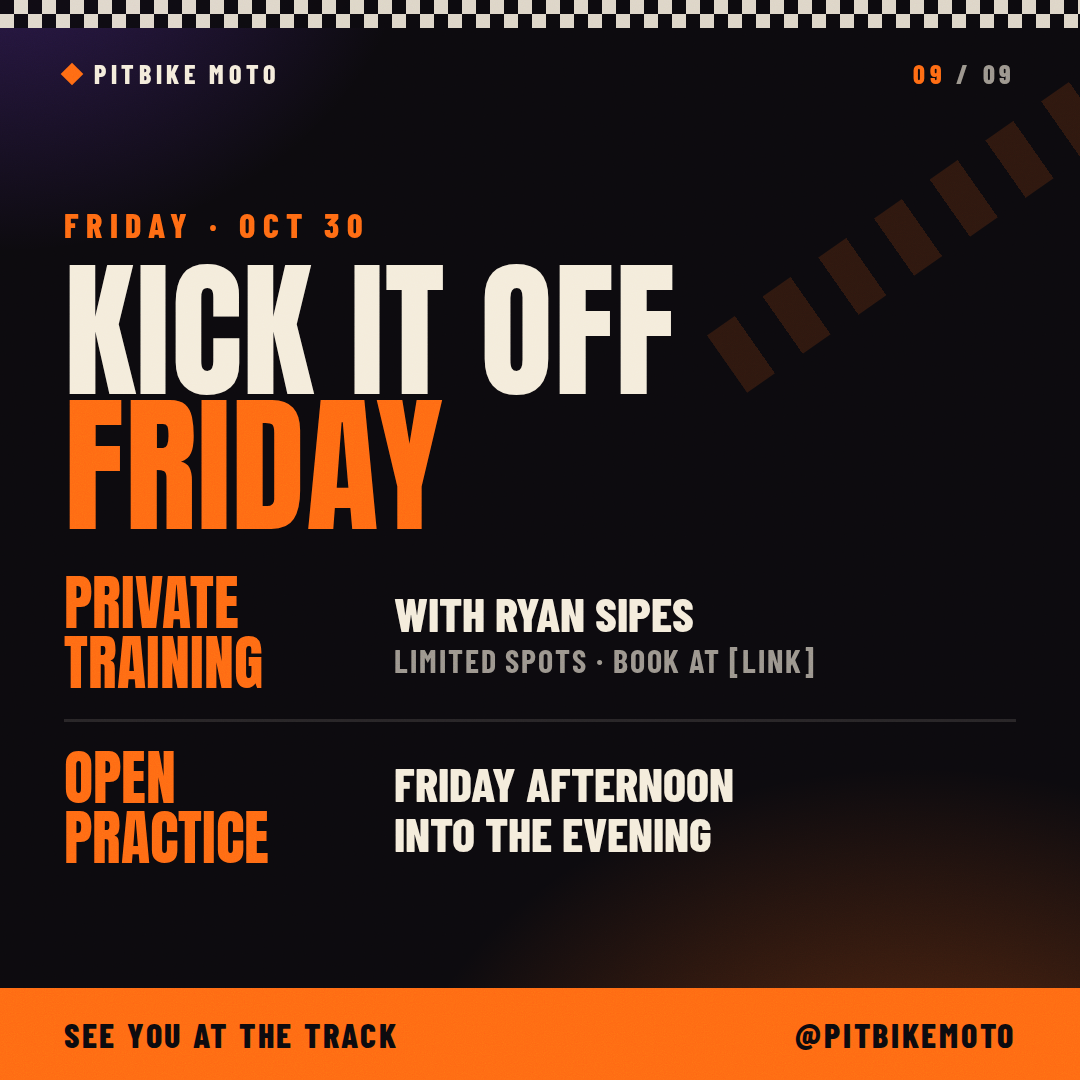
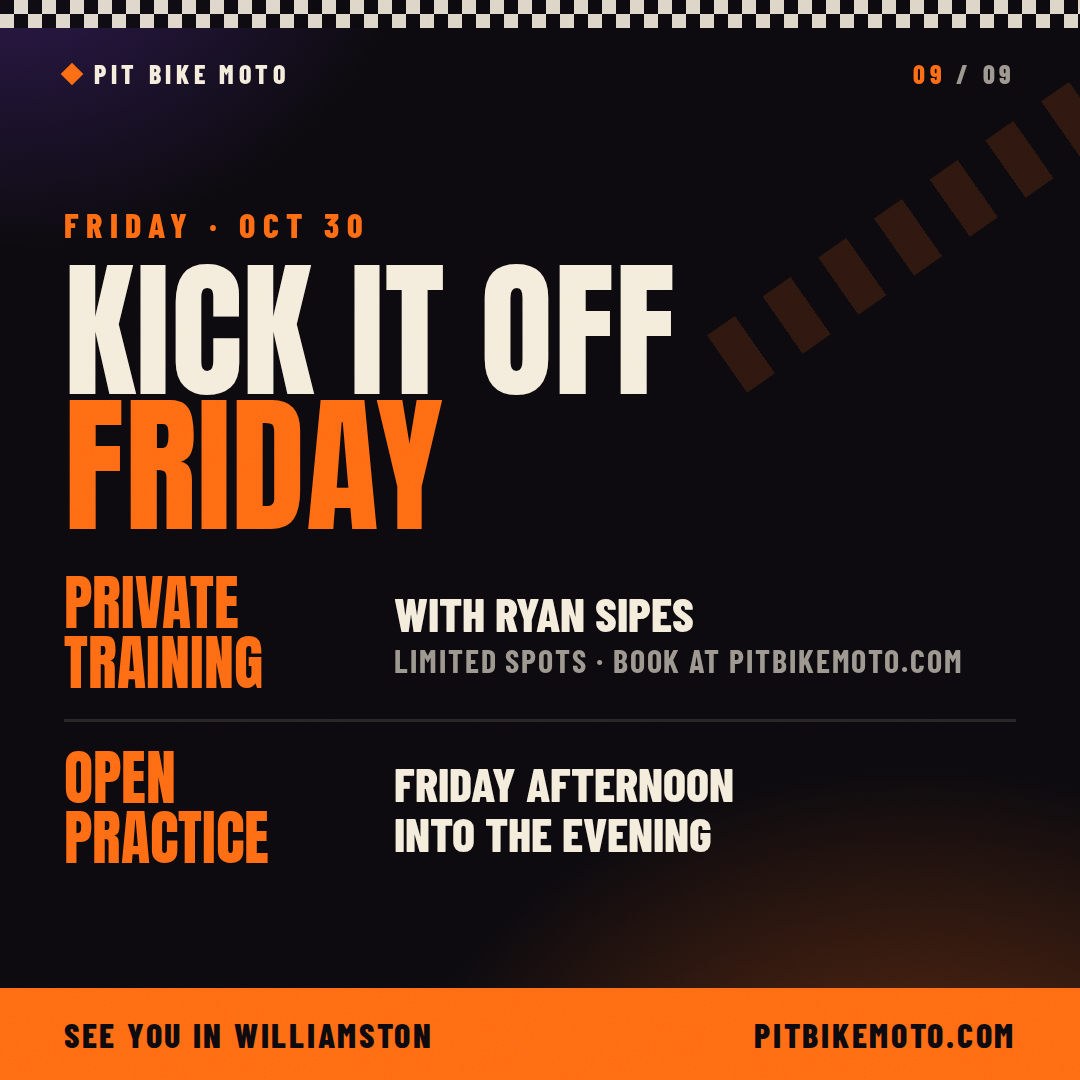
Pit Bike Moto carousel: real event name, venue, dates and site URL
Claude-Session: https://claude.ai/code/session_01LsUGnuPsq6MTeeFWjso5jm

diff --git a/clients/pitbike-moto/halloween-carousel/index.html b/clients/pitbike-moto/halloween-carousel/index.html
@@ -3,7 +3,7 @@
 <head>
 <meta charset="utf-8">
 <meta name="robots" content="noindex">
-<title>Pitbike Moto — Halloween Weekend Carousel</title>
+<title>Pit Bike Moto — Halloween Showcase Carousel</title>
 <style>
   @font-face { font-family: 'Anton'; src: url(fonts/anton.woff2) format('woff2'); font-weight: 400; }
   @font-face { font-family: 'Barlow Condensed'; src: url(fonts/barlow-cond-500.woff2) format('woff2'); font-weight: 500; }
@@ -126,18 +126,18 @@
 <!-- 01 · ANNOUNCEMENT -->
 <section class="slide" id="s1">
   <div class="checker"></div>
-  <div class="topbar"><div class="brand"><span class="dot"></span>Pitbike Moto</div><div class="count"><b>01</b> / 09</div></div>
+  <div class="topbar"><div class="brand"><span class="dot"></span>Pit Bike Moto</div><div class="count"><b>01</b> / 09</div></div>
   <svg class="icon" style="left:640px;top:170px;width:130px;height:55px;color:rgba(244,236,219,.5);transform:rotate(-12deg)"><use href="#bat"/></svg>
   <svg class="icon" style="left:840px;top:250px;width:80px;height:34px;color:rgba(244,236,219,.35);transform:rotate(10deg)"><use href="#bat"/></svg>
   <svg class="icon" style="right:44px;top:330px;width:300px;height:270px;transform:rotate(8deg)"><use href="#pumpkin"/></svg>
   <div class="body" style="justify-content:flex-start;padding-top:90px">
-    <div class="kicker">Race weekend announcement</div>
+    <div class="kicker">Pit Bike Moto presents</div>
     <div class="h" style="font-size:150px">Halloween</div>
-    <div class="h outline" style="font-size:150px">Moto</div>
-    <div class="h" style="font-size:150px;color:var(--orange)">Weekend</div>
+    <div class="h" style="font-size:150px;color:var(--orange)">Showcase</div>
+    <div class="h outline" style="font-size:96px;margin-top:8px">Indoor racing</div>
     <div class="sub" style="margin-top:34px;color:var(--bone);font-size:52px">Oct 30 – Nov 1</div>
-    <div class="sub" style="font-size:38px">Track Name · City, ST</div>
-    <div class="sub" style="margin-top:34px;font-size:32px;letter-spacing:.14em;color:var(--orange-2)">Racing · Live Band · Camping · Trick-or-Treat</div>
+    <div class="sub" style="font-size:38px">Bob Martin Ag Center · Williamston, NC</div>
+    <div class="sub" style="margin-top:34px;font-size:32px;letter-spacing:.14em;color:var(--orange-2)">Racers from all over the country · Live band · Camping</div>
   </div>
   <div class="footer"><span>All the details inside</span><span class="swipe">Swipe <svg><use href="#arrow"/></svg></span></div>
 </section>
@@ -145,7 +145,7 @@
 <!-- 02 · ADMISSION -->
 <section class="slide" id="s2">
   <div class="checker"></div><div class="stripes"></div>
-  <div class="topbar"><div class="brand"><span class="dot"></span>Pitbike Moto</div><div class="count"><b>02</b> / 09</div></div>
+  <div class="topbar"><div class="brand"><span class="dot"></span>Pit Bike Moto</div><div class="count"><b>02</b> / 09</div></div>
   <div class="body">
     <div class="kicker">Spectators</div>
     <div class="h" style="font-size:132px">General<br>Admission</div>
@@ -170,14 +170,14 @@
 <section class="slide" id="s3">
   <div class="checker"></div>
   <div class="ghostnum">2+</div>
-  <div class="topbar"><div class="brand"><span class="dot"></span>Pitbike Moto</div><div class="count"><b>03</b> / 09</div></div>
+  <div class="topbar"><div class="brand"><span class="dot"></span>Pit Bike Moto</div><div class="count"><b>03</b> / 09</div></div>
   <div class="body">
     <div class="kicker">Not an AMA member?</div>
     <div class="h" style="font-size:118px">Sign up for</div>
     <div class="h" style="font-size:210px;color:var(--orange)">2+ classes</div>
     <div class="h" style="font-size:118px;margin-top:10px">We pay your</div>
     <div class="h outline" style="font-size:118px">AMA weekend fee</div>
-    <div class="sub" style="margin-top:36px;font-size:36px">For non-AMA members · Pre-entry at [link]</div>
+    <div class="sub" style="margin-top:36px;font-size:36px">Pre-entry at pitbikemoto.com</div>
   </div>
   <div class="footer"><span>Race it on us</span><span class="swipe">Swipe <svg><use href="#arrow"/></svg></span></div>
 </section>
@@ -186,7 +186,7 @@
 <section class="slide" id="s4">
   <div class="checker"></div>
   <svg class="icon" style="right:70px;top:150px;width:250px;height:200px;color:rgba(255,106,19,.9)"><use href="#tent"/></svg>
-  <div class="topbar"><div class="brand"><span class="dot"></span>Pitbike Moto</div><div class="count"><b>04</b> / 09</div></div>
+  <div class="topbar"><div class="brand"><span class="dot"></span>Pit Bike Moto</div><div class="count"><b>04</b> / 09</div></div>
   <div class="body">
     <div class="kicker">Stay the weekend</div>
     <div class="h" style="font-size:170px">Camping</div>
@@ -205,7 +205,7 @@
       </div>
     </div>
   </div>
-  <div class="footer"><span>Reserve: [phone / link]</span><span class="swipe">Swipe <svg><use href="#arrow"/></svg></span></div>
+  <div class="footer"><span>Reserve at pitbikemoto.com</span><span class="swipe">Swipe <svg><use href="#arrow"/></svg></span></div>
 </section>
 
 <!-- 05 · TRICK OR TREAT -->
@@ -213,7 +213,7 @@
   <div class="checker"></div>
   <svg class="icon" style="left:90px;top:170px;width:120px;height:50px;color:rgba(244,236,219,.45);transform:rotate(-14deg)"><use href="#bat"/></svg>
   <svg class="icon" style="right:120px;top:210px;width:90px;height:38px;color:rgba(244,236,219,.35);transform:rotate(12deg)"><use href="#bat"/></svg>
-  <div class="topbar"><div class="brand"><span class="dot"></span>Pitbike Moto</div><div class="count"><b>05</b> / 09</div></div>
+  <div class="topbar"><div class="brand"><span class="dot"></span>Pit Bike Moto</div><div class="count"><b>05</b> / 09</div></div>
   <div class="body" style="align-items:center;text-align:center">
     <div class="kicker">Saturday in the pits</div>
     <div class="spooky" style="font-size:190px;line-height:.95">Trick or<br>Treat</div>
@@ -227,7 +227,7 @@
 <!-- 06 · RACE SCHEDULE -->
 <section class="slide" id="s6">
   <div class="checker"></div><div class="stripes"></div>
-  <div class="topbar"><div class="brand"><span class="dot"></span>Pitbike Moto</div><div class="count"><b>06</b> / 09</div></div>
+  <div class="topbar"><div class="brand"><span class="dot"></span>Pit Bike Moto</div><div class="count"><b>06</b> / 09</div></div>
   <div class="body">
     <div class="kicker">Race schedule</div>
     <div class="h" style="font-size:150px">Main events</div>
@@ -250,7 +250,7 @@
 <section class="slide" id="s7">
   <div class="checker"></div>
   <div class="ghostnum" style="font-size:420px;right:-10px">MINI</div>
-  <div class="topbar"><div class="brand"><span class="dot"></span>Pitbike Moto</div><div class="count"><b>07</b> / 09</div></div>
+  <div class="topbar"><div class="brand"><span class="dot"></span>Pit Bike Moto</div><div class="count"><b>07</b> / 09</div></div>
   <div class="body">
     <div class="kicker">New for this event</div>
     <div class="h" style="font-size:150px">Mini bike<br><span style="color:var(--orange)">track built</span></div>
@@ -267,7 +267,7 @@
 <!-- 08 · BAND -->
 <section class="slide" id="s8" style="background:radial-gradient(900px 700px at 50% 120%, rgba(123,63,228,.6), transparent 60%),radial-gradient(600px 500px at 90% 0%, rgba(255,106,19,.3), transparent 60%),var(--ink)">
   <div class="checker"></div>
-  <div class="topbar"><div class="brand"><span class="dot"></span>Pitbike Moto</div><div class="count"><b>08</b> / 09</div></div>
+  <div class="topbar"><div class="brand"><span class="dot"></span>Pit Bike Moto</div><div class="count"><b>08</b> / 09</div></div>
   <div class="body">
     <div class="kicker">Live · Saturday night</div>
     <div class="h" style="font-size:230px;line-height:.86">Flip Flop</div>
@@ -281,14 +281,14 @@
 <!-- 09 · FRIDAY -->
 <section class="slide" id="s9">
   <div class="checker"></div><div class="stripes"></div>
-  <div class="topbar"><div class="brand"><span class="dot"></span>Pitbike Moto</div><div class="count"><b>09</b> / 09</div></div>
+  <div class="topbar"><div class="brand"><span class="dot"></span>Pit Bike Moto</div><div class="count"><b>09</b> / 09</div></div>
   <div class="body">
     <div class="kicker">Friday · Oct 30</div>
     <div class="h" style="font-size:150px">Kick it off<br><span style="color:var(--orange)">Friday</span></div>
     <div class="rows">
       <div class="row" style="grid-template-columns:300px 1fr">
         <div class="day" style="font-size:60px">Private<br>training</div>
-        <div class="what">With Ryan Sipes<span>Limited spots · Book at [link]</span></div>
+        <div class="what">With Ryan Sipes<span>Limited spots · Book at pitbikemoto.com</span></div>
       </div>
       <div class="row" style="grid-template-columns:300px 1fr">
         <div class="day" style="font-size:60px">Open<br>practice</div>
@@ -296,7 +296,7 @@
       </div>
     </div>
   </div>
-  <div class="footer"><span>See you at the track</span><span>@pitbikemoto</span></div>
+  <div class="footer"><span>See you in Williamston</span><span>pitbikemoto.com</span></div>
 </section>
 
 </body>
